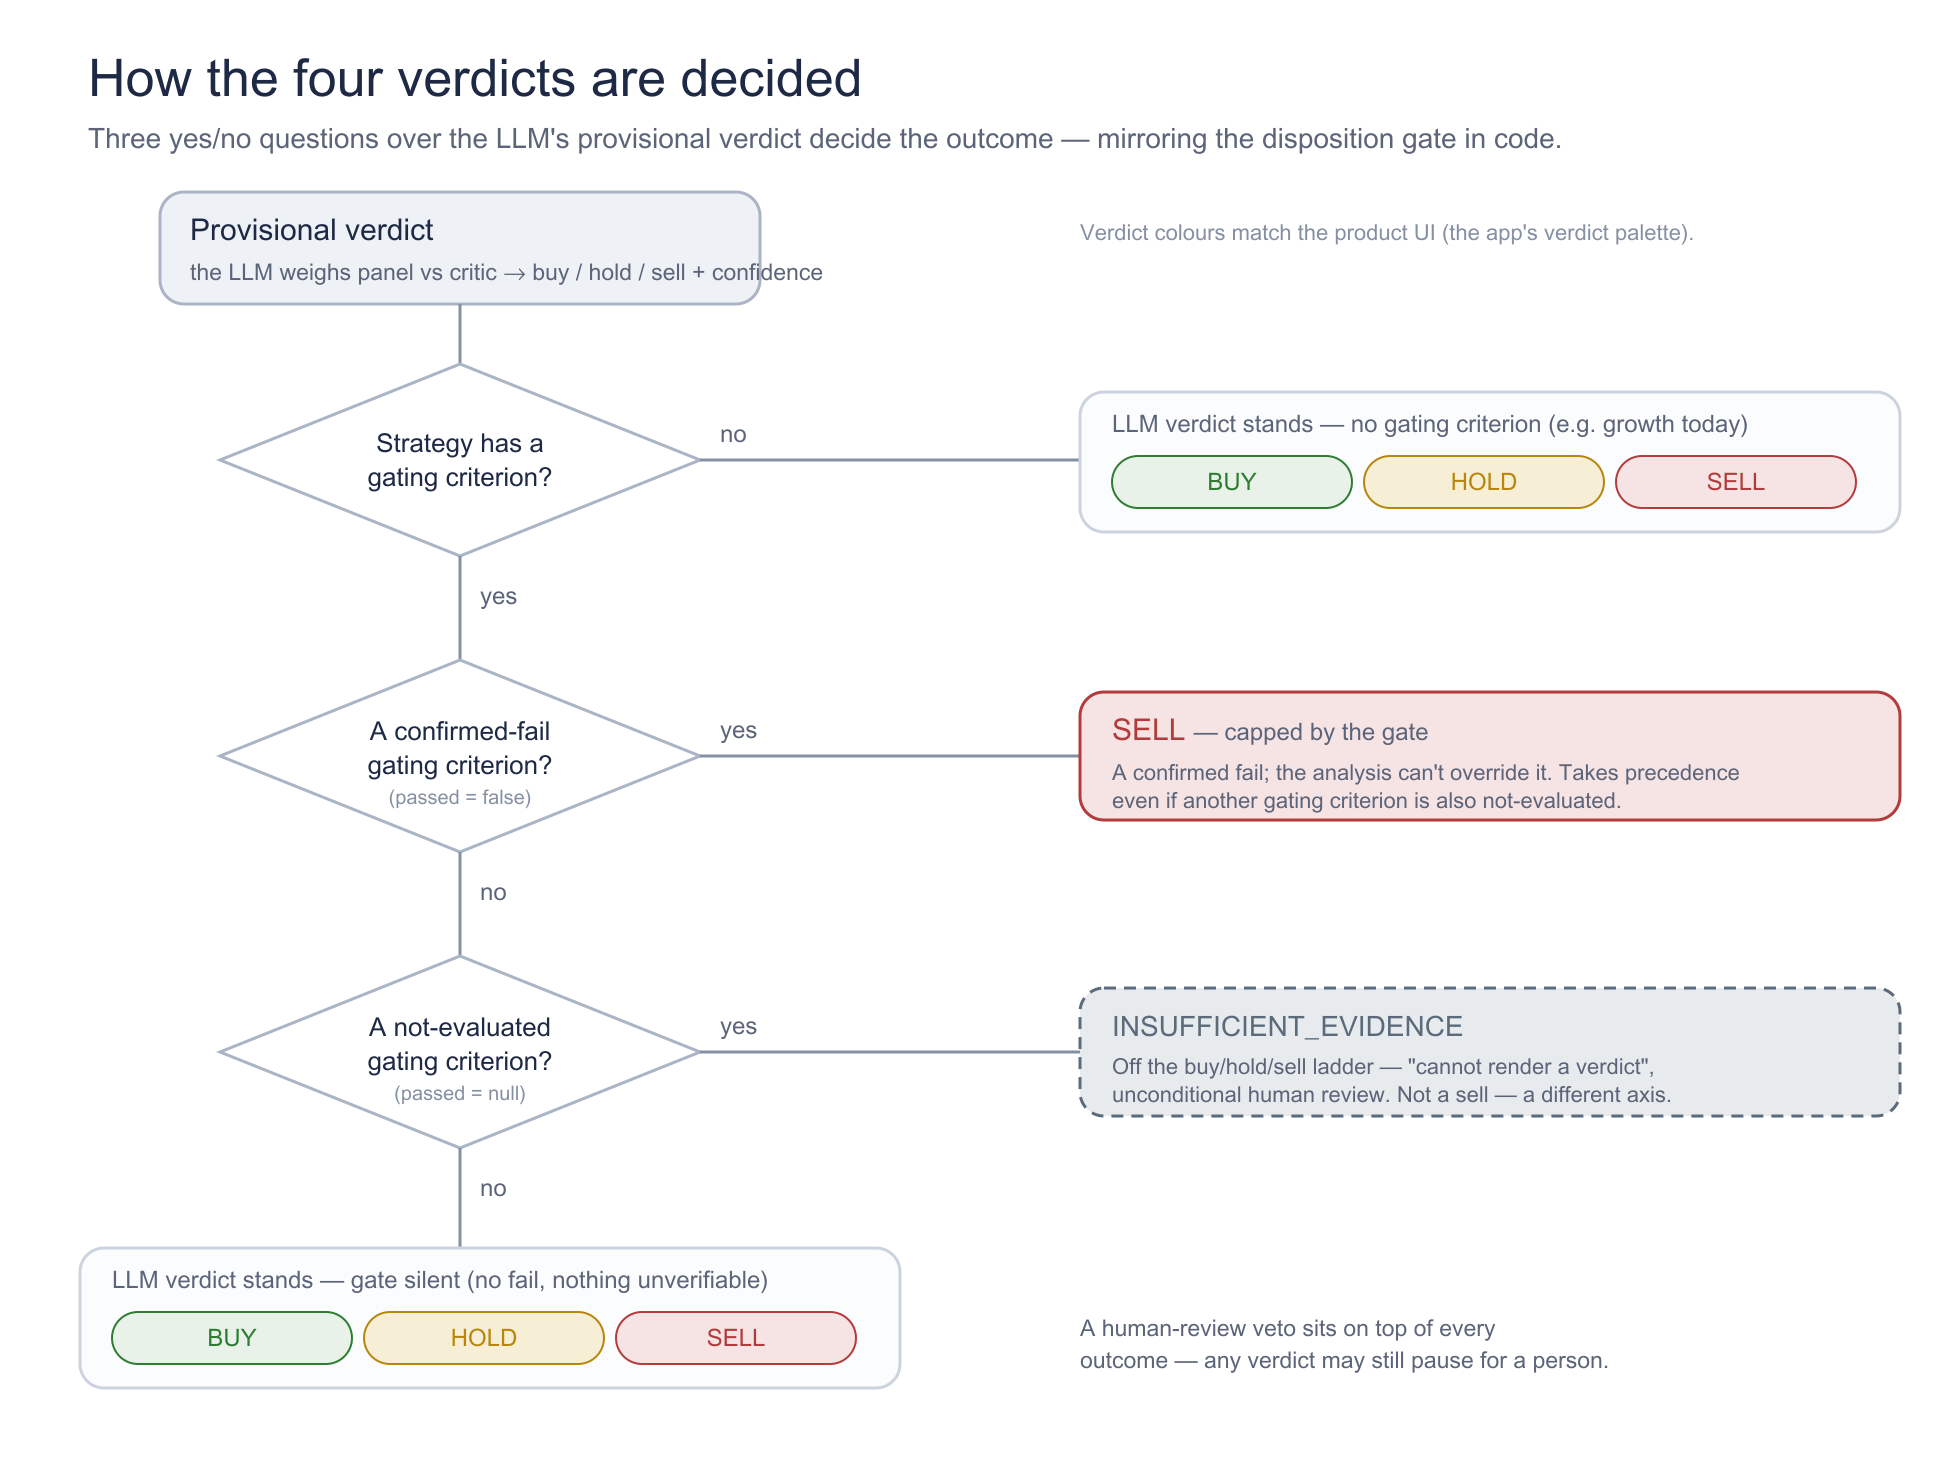
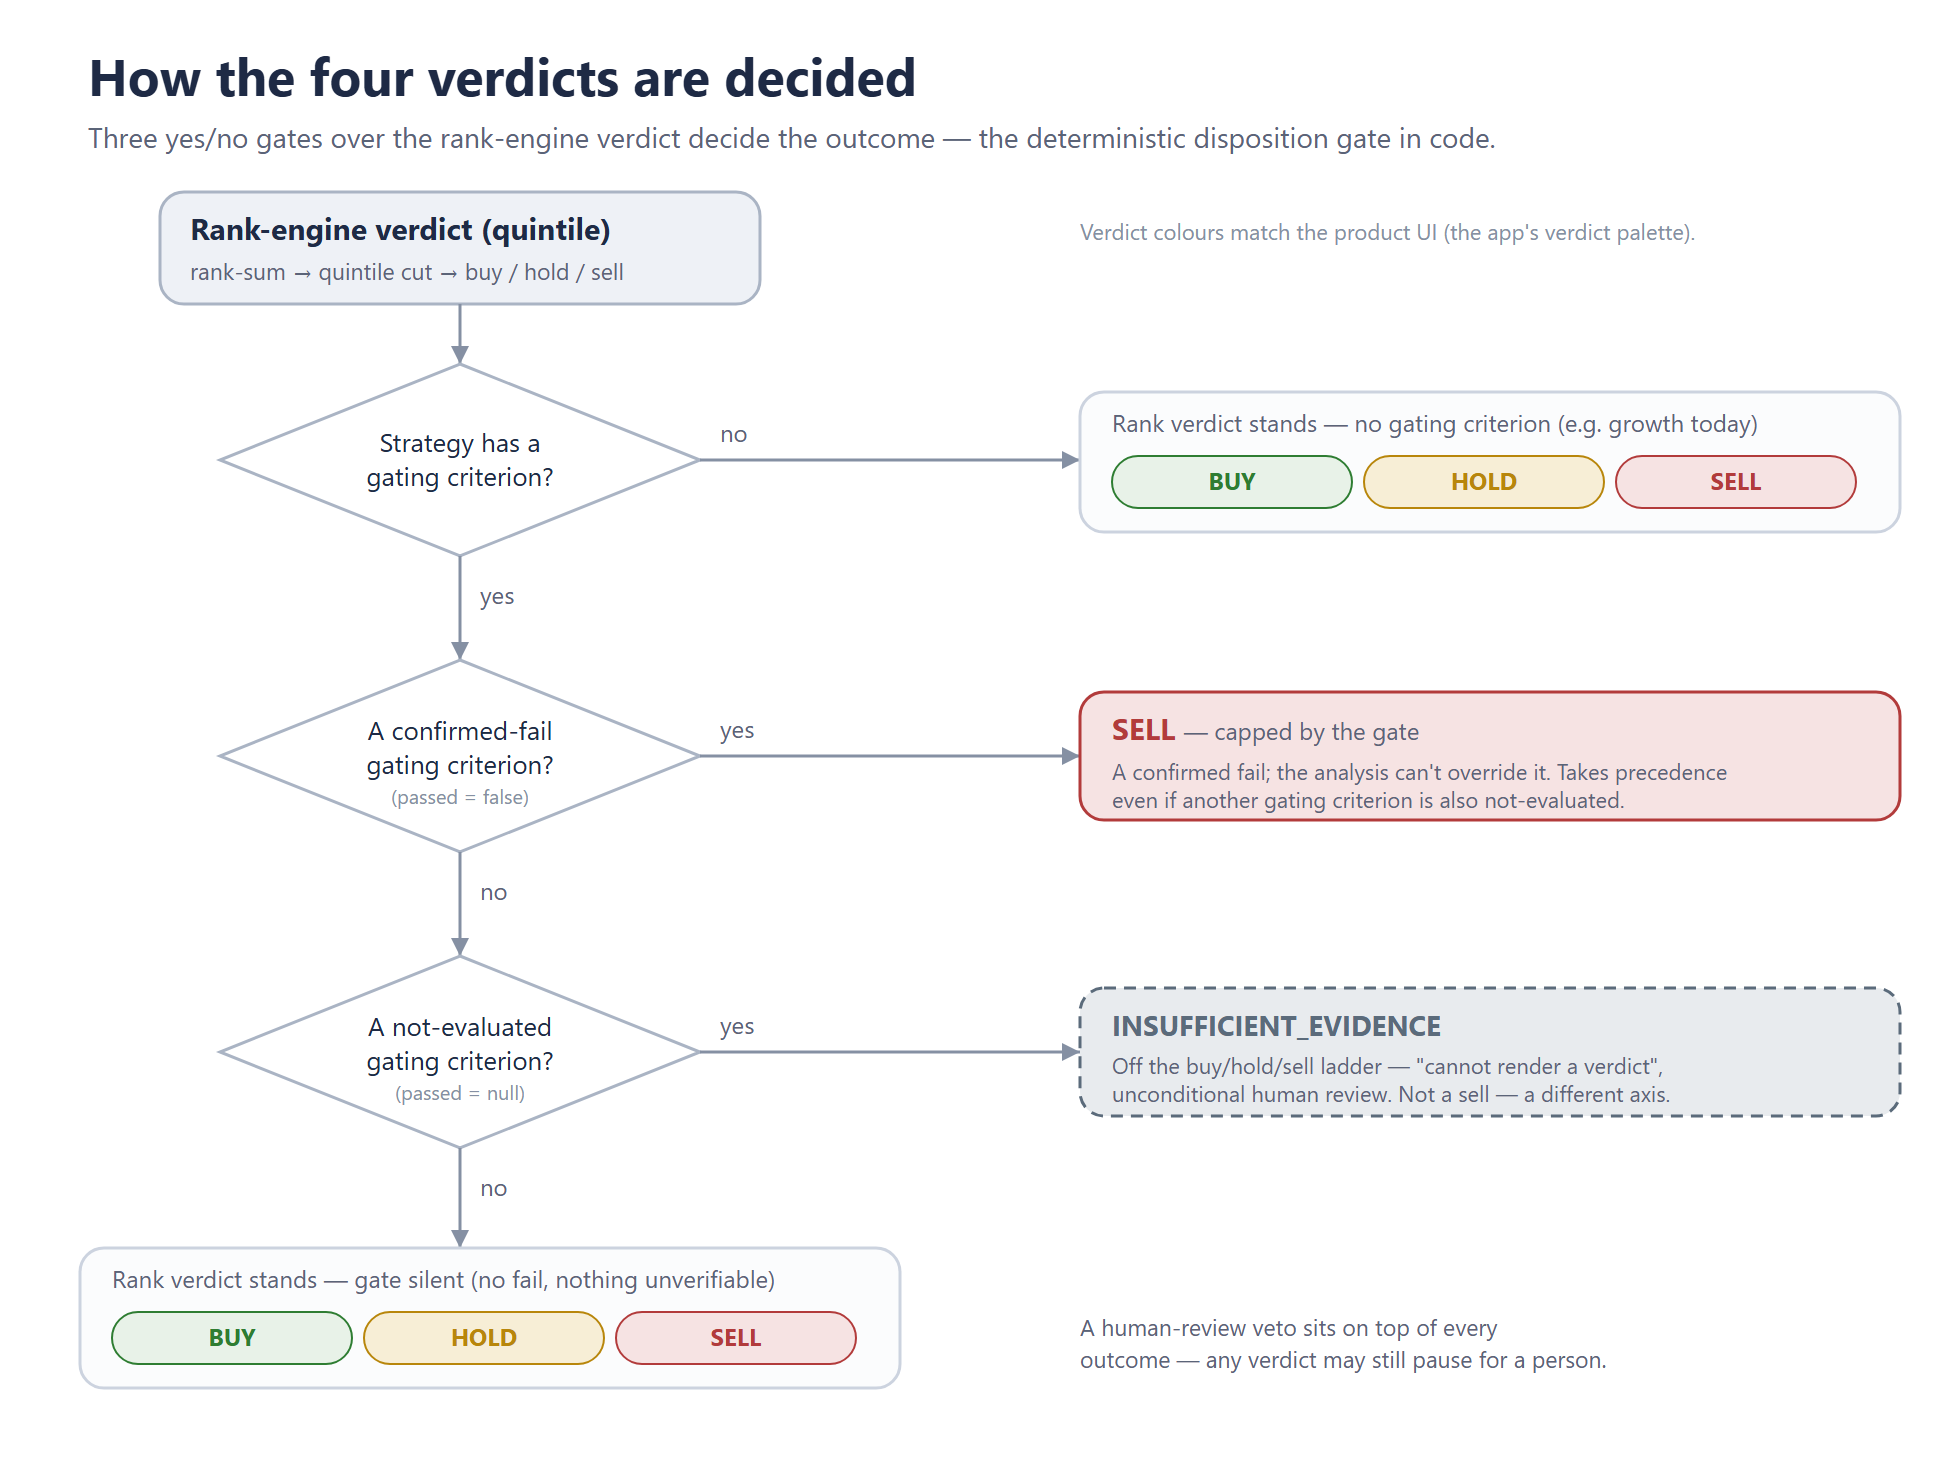
docs: v2 architecture diagram; retire council_flow
- Replace council_diagram.png with a v2 two-lane architecture diagram:
  deterministic core (ticker + strategy -> screen w/ UNRATEABLE exit -> rank
  engine: per-factor ranks -> rank-sum -> quintile cut -> gates -> verdict of
  record) handing off across a labeled boundary ("Verdict: deterministic
  ranker. Narrative: LLM (non-judging).") to a visually distinct narrator lane
  (4 specialists + critic, non-judging, provenance-bound -> narrative + open
  questions -> human veto). second_opinion drawn as a dashed optional path.
  Add council_diagram.svg as the reproducible source.
- Update decision_logic.png/.svg: the START box is now "Rank-engine verdict
  (quintile)" instead of the LLM decision-agent recommendation; the three gate
  branches are unchanged.
- Delete council_flow.png/.svg (superseded; no references remained).
- Embed the new architecture diagram in the README "How a verdict is reached".

diff --git a/README.md b/README.md
@@ -30,6 +30,10 @@ factor, criterion, and guard, generated from the code.
 
 ## How a verdict is reached
 
+<p align="center">
+  <img src="docs/council_diagram.png" alt="Aristos Council v2 architecture: a deterministic core (ticker + strategy → screen with UNRATEABLE exit → rank engine → gates → verdict of record) hands off to a non-judging LLM narrator layer (four specialists + critic → narrative + open questions → human veto), with second_opinion as an optional dashed path" width="820">
+</p>
+
 1. **Screen (deterministic).** The strategy's lens screen evaluates absolute floors —
    income, coverage, balance-sheet, momentum-breakdown, quality. Three states per
    criterion: pass / fail / not-evaluated. Only a confirmed FAIL excludes; missing data